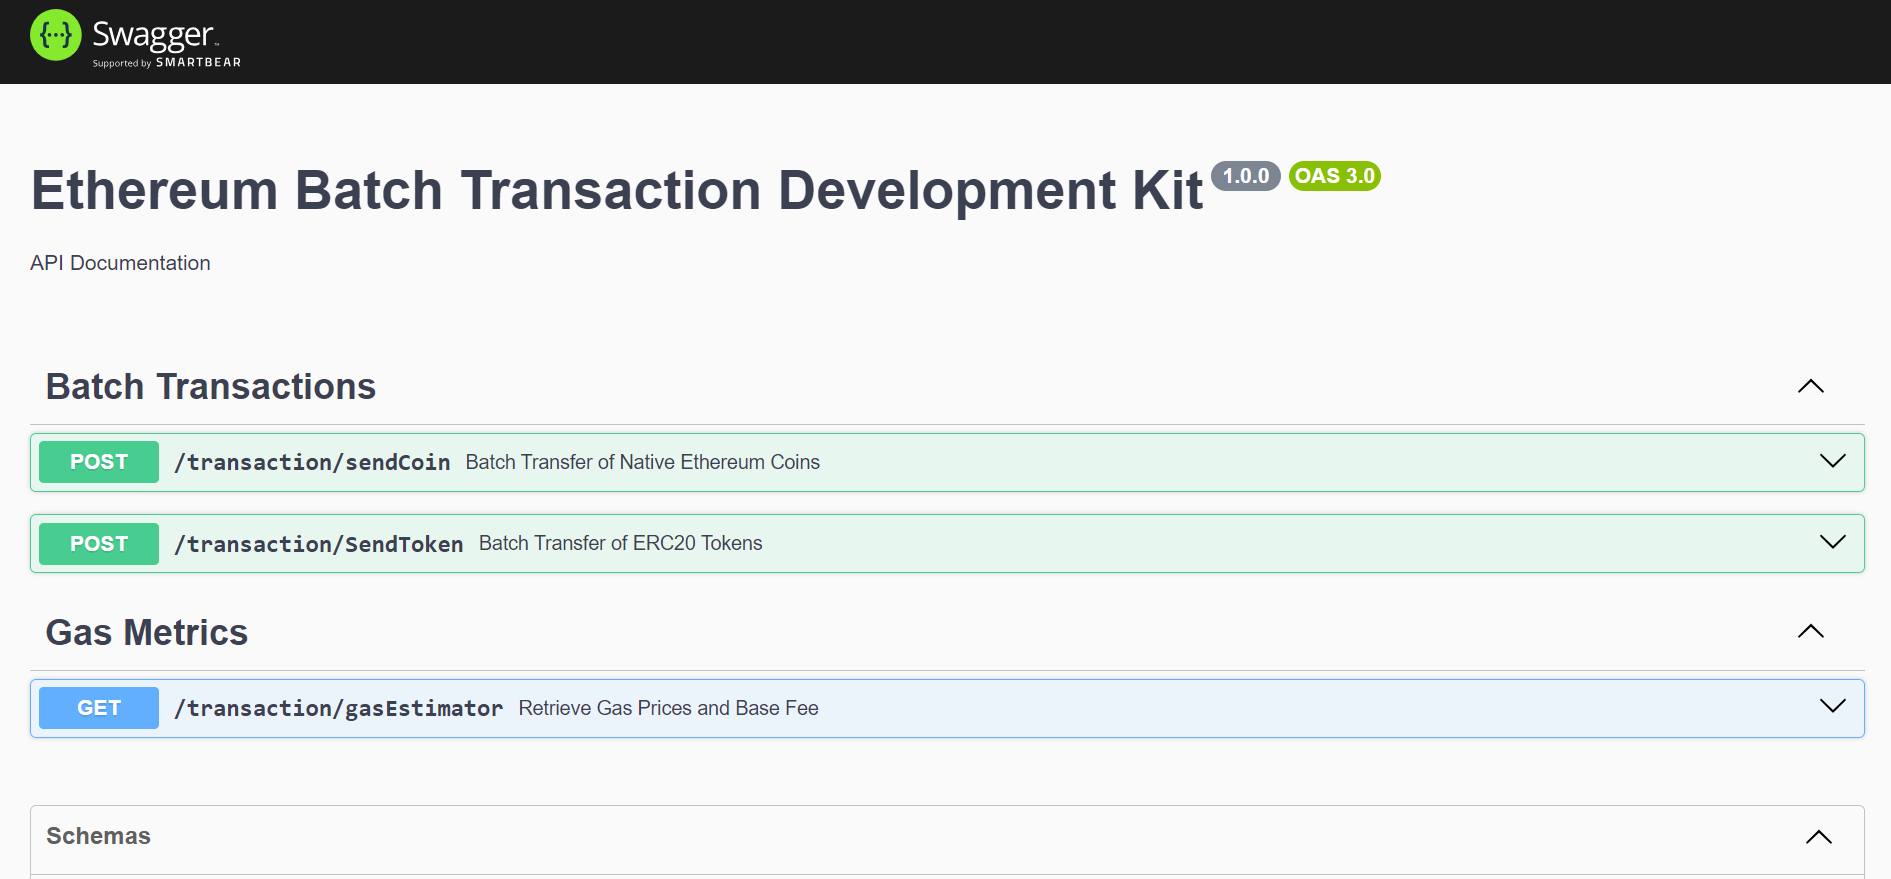
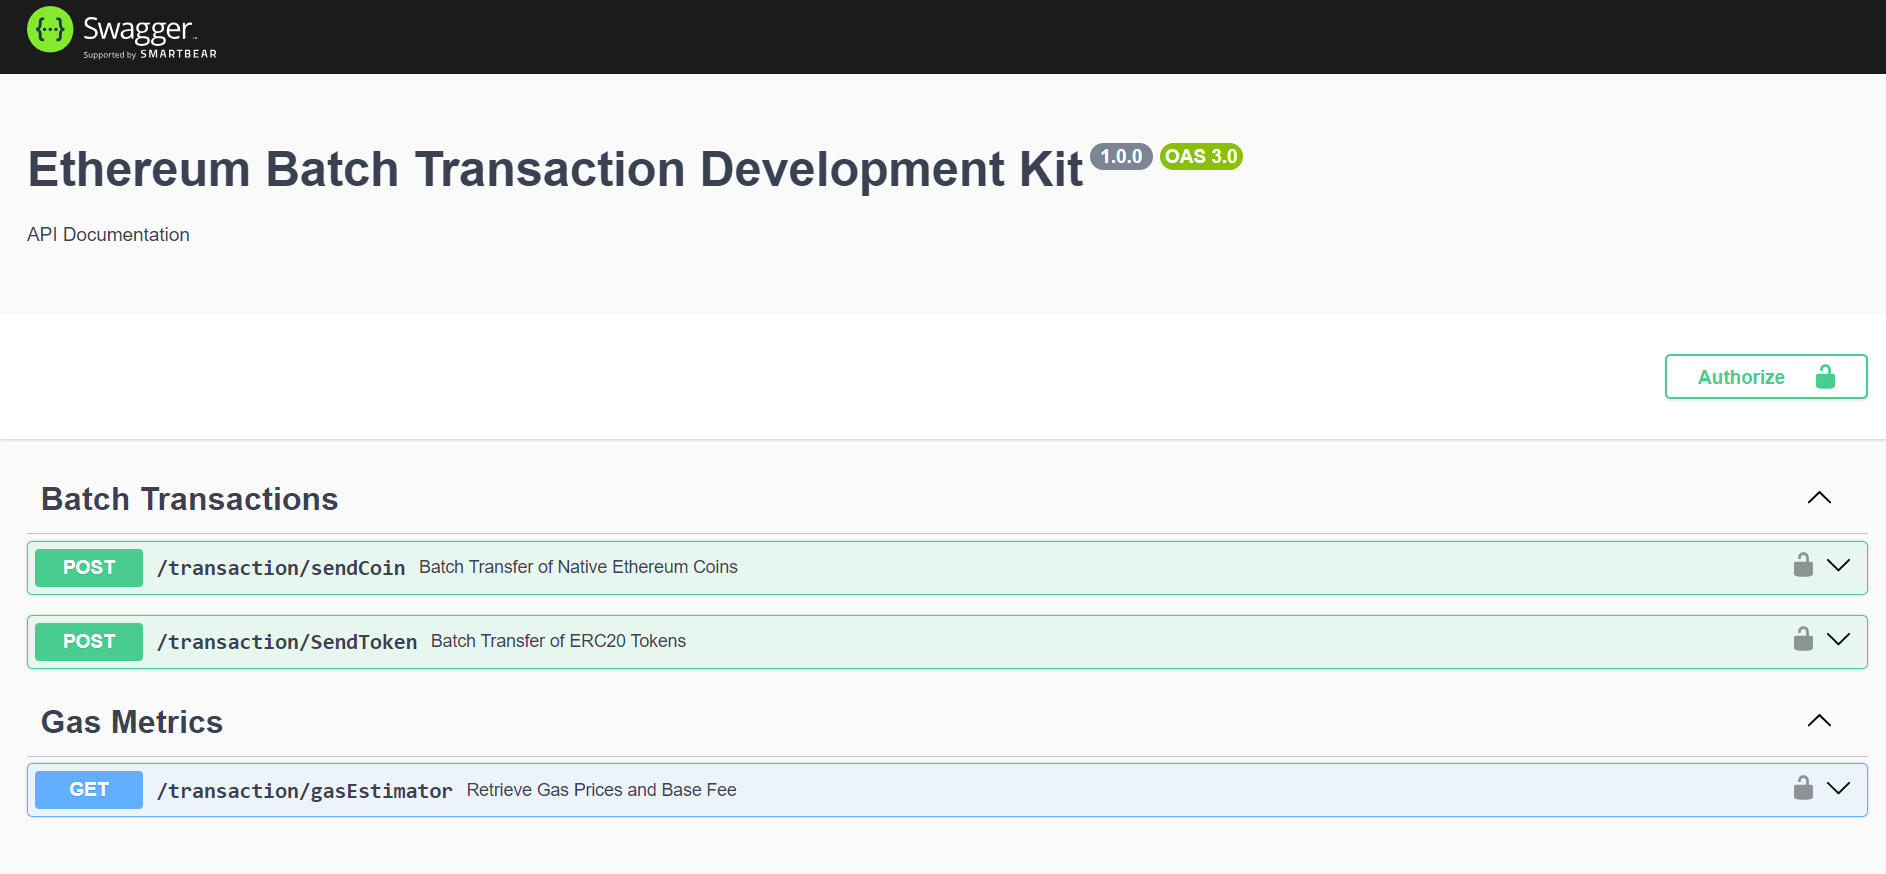
README.md-updated

diff --git a/README.md b/README.md
@@ -37,6 +37,7 @@ The Blockchain Transaction Service is a `NestJS` application designed to facilit
    ```bash
    APP_HOST=0.0.0.0
    APP_PORT=3369
+   API_SECRET_KEY=safle
    ```
 
    * `blockchain.env` : 
@@ -80,6 +81,8 @@ The Blockchain Transaction Service is a `NestJS` application designed to facilit
 7. **Access API Documentation**
 
    To test our SDK, go to http://localhost:3369/swagger for API documentation and testing
+
+   You need to provide the API_SECRET_KEY mentioned in `app.env` for accessing the endpoints through Swagger.
 
    ![alt text](image.png)
 
